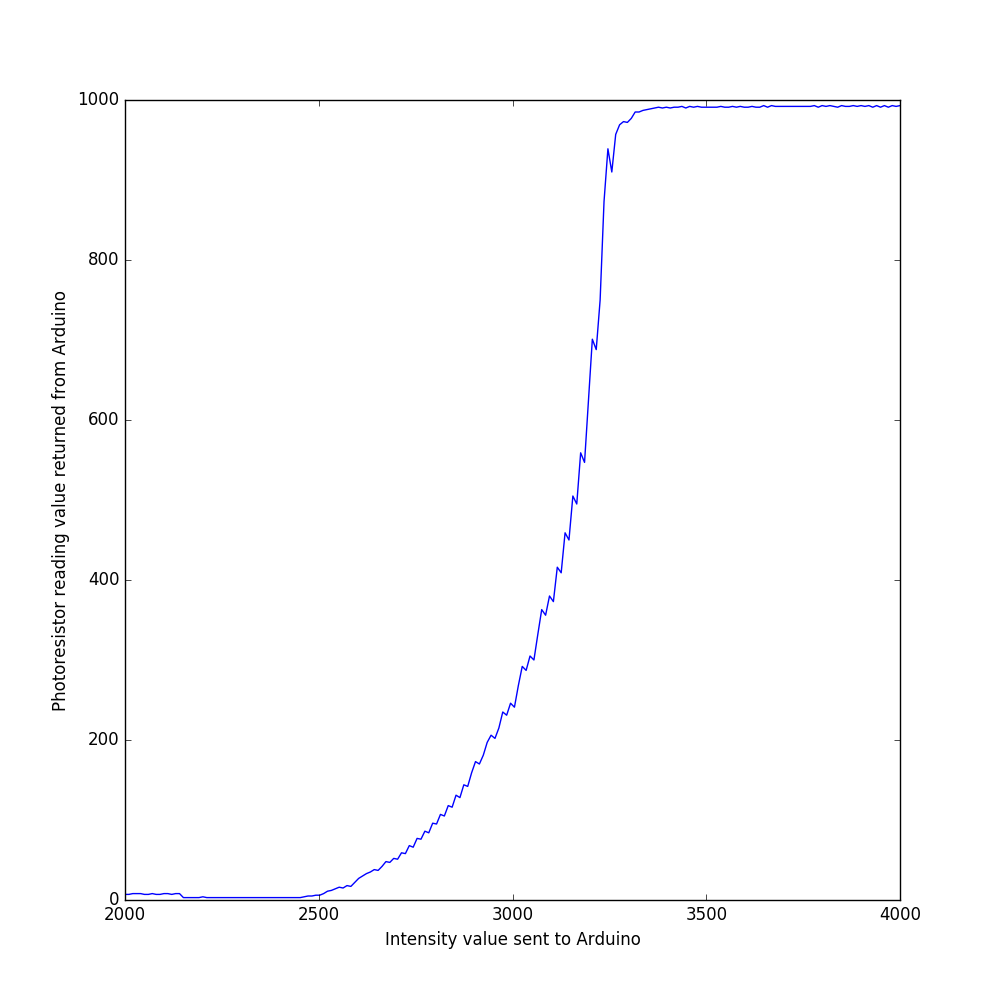
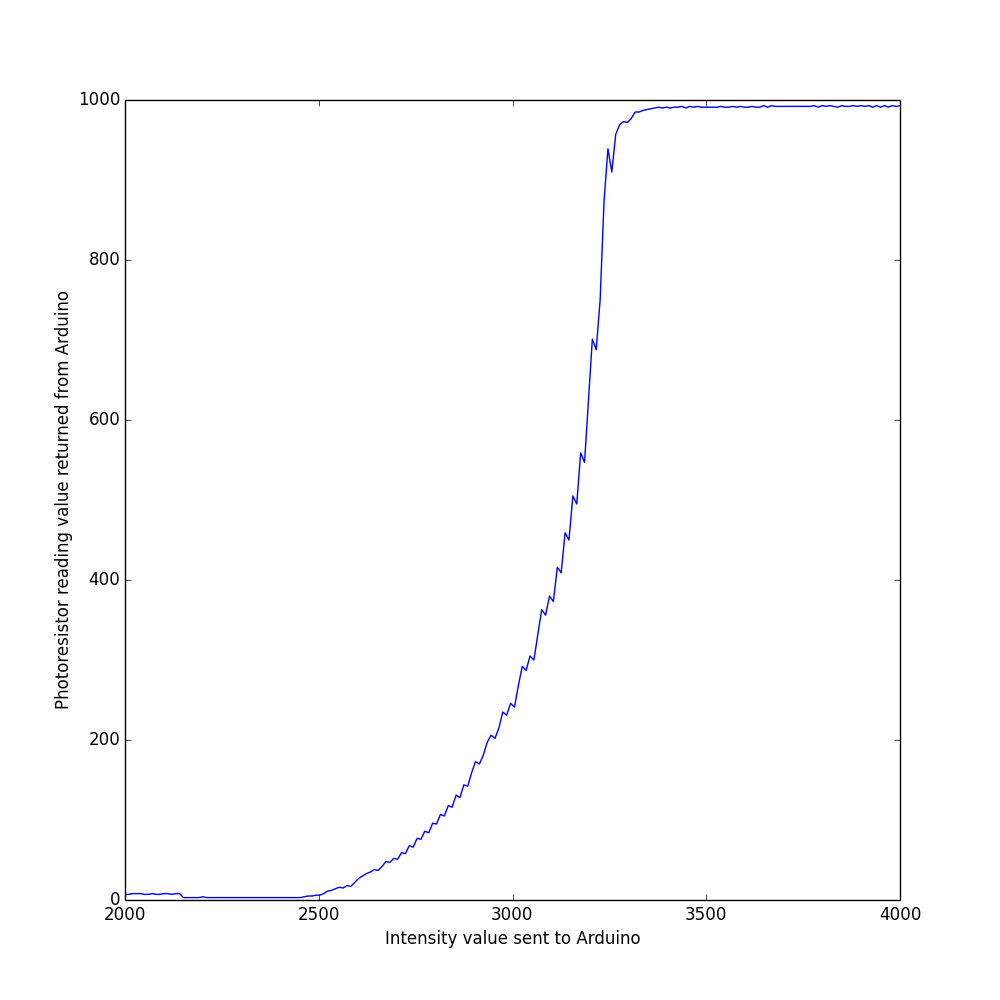
Working Malus fit

diff --git a/Laser/importLaserData.py b/Laser/importLaserData.py
@@ -13,7 +13,7 @@ import os
 
 # ----------------------------- Importing data ------------------------------------
 
-f =  1.0/180.0
+f =  1.0/360.0
 
 x = numpy.arange(0,720,1)
 xBrewster = numpy.arange(0,360,1)
@@ -26,15 +26,6 @@ for i in range(1,50):
 
 for i in range(1,20):    
     exec("nopolarizer%d = numpy.concatenate((numpy.loadtxt('./sineWaves/rawdata/laserSineWave%d.txt')[0],numpy.loadtxt('./sineWaves/rawdata/laserSineWave%d.txt')[1]))"%(i,i,i))
-
-
-plt.figure(figsize=(10,10), dpi=150)
-plt.xlabel('Intensity value sent to Arduino',fontsize=12)
-plt.ylabel('Photoresistor reading value returned from Arduino',fontsize=12)
-plt.plot(x,nopolarizer6)
-plt.savefig('./polarizationCalibration.png')
-
-print(1-min(nopolarizer6)/(max(nopolarizer6)-min(nopolarizer6)))
 
 """
 for i in range(1,100):
@@ -77,35 +68,41 @@ for i in range(1,2):
 # ------------------------------- Plots ----------------------------------
 
 # Intensity calibration 
-plt.figure(figsize=(10,10), dpi=150)
+plt.figure(figsize=(10,6), dpi=150)
 plt.xlabel('Intensity value sent to Arduino',fontsize=12)
 plt.ylabel('Photoresistor reading value returned from Arduino',fontsize=12)
-plt.plot(intensityData[0],intensityData[1])
-plt.savefig('./intensityCalibration.png')
+plt.plot(intensityData[0],intensityData[1],'.')
+#plt.savefig('./intensityCalibration.png')
+plt.show()
 
+# Intensity calibration - with filter 
+plt.figure(figsize=(10,6), dpi=150)
+plt.xlabel('Intensity value sent to Arduino',fontsize=12)
+plt.ylabel('Photoresistor reading value returned from Arduino',fontsize=12)
+plt.plot(x,nopolarizer6,'.')
+plt.savefig('./polarizationCalibration.png')
 
 # Sinusoidal - filter
-
-for i in range(1,1):
-    exec("plt.figure(figsize=(10,10), dpi=150)")
+for i in range(1,2):
+    exec("plt.figure(figsize=(10,6), dpi=150)")
     exec("plt.xlabel('Step number',fontsize=12)")
     exec("plt.ylabel('Value returned from Arduino',fontsize=12)")
     exec("plt.xlim([0,720])")
     exec("plt.ticklabel_format(style='sci', axis='y', scilimits=(0,0))")
     exec("plt.errorbar(x, filter%d,yerr=error,fmt='.',ms=5)"%i)
-    exec("plt.plot(x, sineFit(paramsF%d,x),color='red')"%i)
+    exec("plt.plot(x, malusFit(paramsF%d,x),color='red')"%i)
     #exec("plt.savefig('./sineWaves/filter/sineFitF%d.png',dpi=150)"%i)
     plt.show()
 
 # Sinusoidal - no filter
-for i in range(1,1):
-    exec("plt.figure(figsize=(10,10), dpi=150)")
+for i in range(1,2):
+    exec("plt.figure(figsize=(10,6), dpi=150)")
     exec("plt.xlabel('Step number',fontsize=12)")
     exec("plt.ylabel('Value returned from Arduino',fontsize=12)")
     exec("plt.xlim([0,720])")
     exec("plt.ticklabel_format(style='sci', axis='y', scilimits=(0,0))")
     exec("plt.errorbar(x, nofilter%d,yerr=error,fmt='.',ms=5)"%i)
-    exec("plt.plot(x, sineFit(paramsNF%d,x),color='red')"%i)
+    exec("plt.plot(x, malusFit(paramsNF%d,x),color='red')"%i)
     #exec("plt.savefig('./sineWaves/nofilter/sineFitNF%d.png',dpi=150)"%i)
     plt.show()
 
